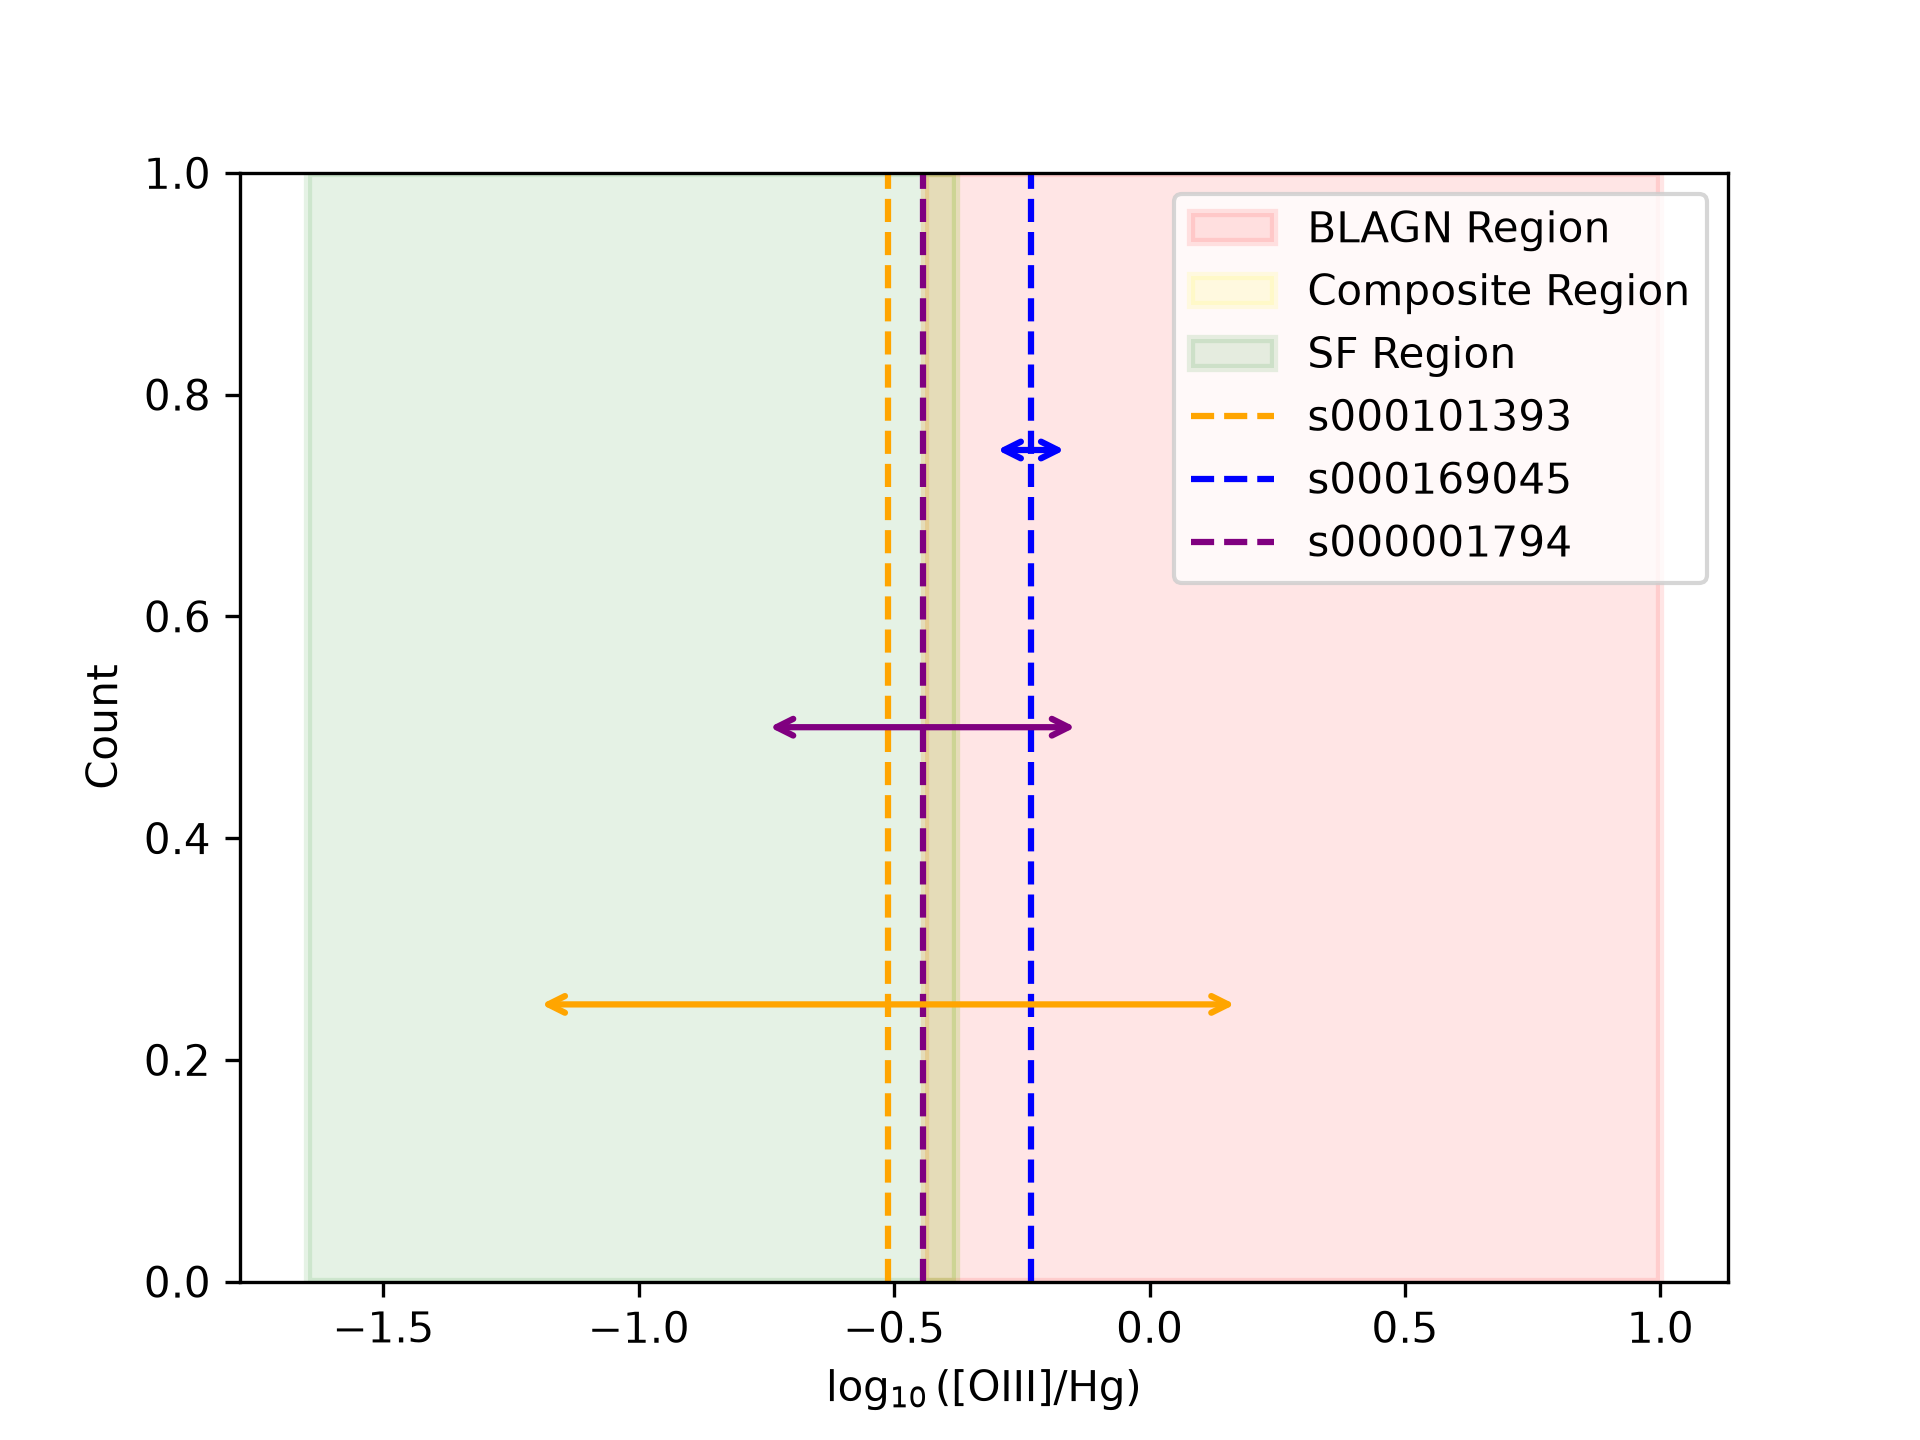
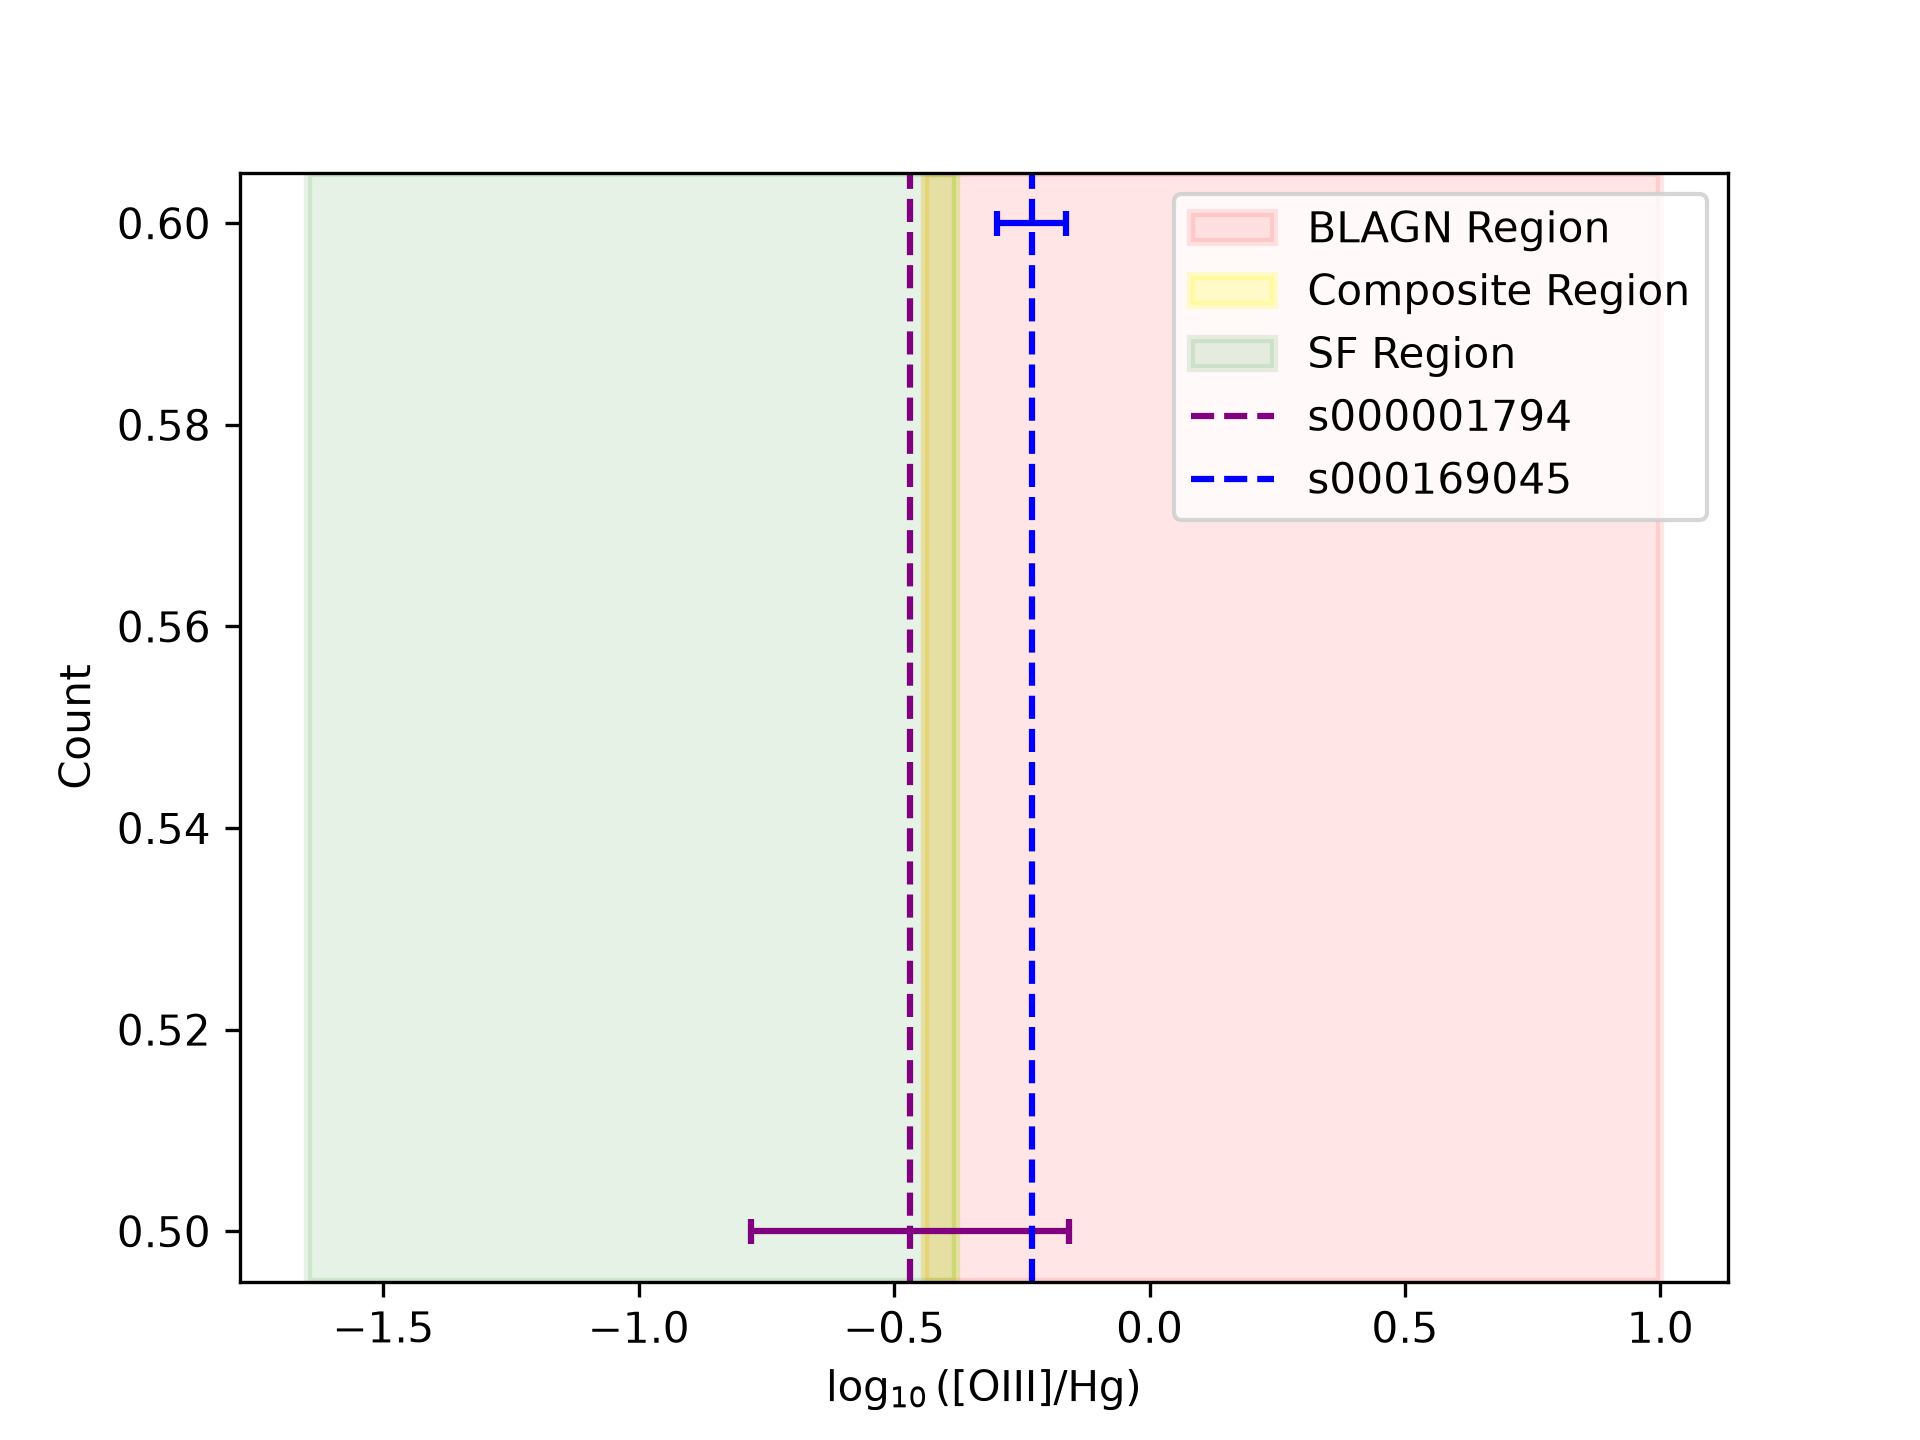
Fixed error prop

diff --git a/ratio_histo_calc.py b/ratio_histo_calc.py
@@ -1,8 +1,8 @@
 # Finds ratio of OIII/Hg, plots results on a histogram in log scale
 
+import os
 import numpy as np
 from astropy.io import fits
-import glob2 as glob
 import lime
 import matplotlib.pyplot as plt
 import astropy.units as u
@@ -23,17 +23,27 @@ redshifts = {
     's000169045': 5.239
 }
 
-all_ratios = []
+# List of exact target filenames
+target_galaxies = [
 
-# dictionary for three specific IDs
-target_galaxies = ['s000101393', 's000001794', 's000169045']
+    'f170lp_g235h_s000001794_x1d_nodded-bg_P1_errescaled.fits',
+    'f170lp_g235h_s000169045_x1d_nodded-bg_P4_errescaled.fits'
+]
+
 target_data = {}
 
-for file_address in glob.glob(data_folder + '*.fits'):
-    print(file_address)
-    # file_address = 'data/reextrac2/f170lp_g235h_s000020504_x1d_nodded-bg_P1_errescaled.fits'
+# loop only through the 3 ID's, ignore others
+for filename in target_galaxies:
+    file_address = os.path.join(data_folder, filename)
+    print(f"Processing: {file_address}")
 
-    galaxy_id = file_address.split('_')[2]
+    # make sure no typos
+    if not os.path.exists(file_address):
+        print(f"File not found: {file_address}")
+        continue
+
+    # get the short ID
+    galaxy_id = filename.split('_')[2]
     z_val = redshifts[galaxy_id]
 
     hdul = fits.open(file_address)
@@ -41,10 +51,8 @@ for file_address in glob.glob(data_folder + '*.fits'):
     flux_array = hdul[1].data['Flux']
     hdul.close()
 
-    # https://lime-stable.readthedocs.io/en/latest/1_introduction/4_lines_database.html
     spec = lime.Spectrum.from_file(file_address, instrument='nirspec', redshift=z_val)
-
-    spec.unit_conversion(wave_units_out='Angstrom', flux_units_out=u.erg/u.s/(u.cm**2))
+    spec.unit_conversion(wave_units_out='Angstrom', flux_units_out=u.erg / u.s / (u.cm ** 2))
 
     spec.fit.bands('H1_4340A', cont_source='adjacent')
     spec.fit.bands('O3_4363A', cont_source='adjacent')
@@ -56,45 +64,37 @@ for file_address in glob.glob(data_folder + '*.fits'):
         profile_flux_err_gamma = spec.frame.loc[['H1_4340A'], ['profile_flux_err']].iloc[0, 0]
         profile_flux_err_oxy = spec.frame.loc[['O3_4363A'], ['profile_flux_err']].iloc[0, 0]
 
-        # Calculate ratio and log ratio
+        # Calculates ratio and log ratio
         ratio = profile_flux_oxy / profile_flux_gamma
         log_ratio = np.log10(ratio)
-        all_ratios.append(ratio)
 
-        # finds error propagation
+        # Calculates error propagation
         fractional_err_oxy = profile_flux_err_oxy / profile_flux_oxy
         fractional_err_gamma = profile_flux_err_gamma / profile_flux_gamma
         ratio_err = ratio * np.sqrt(fractional_err_oxy ** 2 + fractional_err_gamma ** 2)
         log_ratio_err = ratio_err / (ratio * np.log(10))
 
-        if galaxy_id in target_galaxies:
-            target_data[galaxy_id] = {'log_val': log_ratio, 'error': log_ratio_err}
+        target_data[galaxy_id] = {'log_val': log_ratio, 'error': log_ratio_err}
+
+        # debugging prints to figure out why the error is so large
+        print(f"\n--- For {galaxy_id} ---")
+        print(f"OIII Flux: {profile_flux_oxy:.2e} +/- {profile_flux_err_oxy:.2e}")
+        print(f"H-gamma Flux: {profile_flux_gamma:.2e} +/- {profile_flux_err_gamma:.2e}")
+        print(f"Final Log Error: {log_ratio_err:.4f}\n")
 
     except Exception as e:
-        print(e)
-
-# cleans ratios, no nan
-clean_ratios = np.array(all_ratios)
-clean_ratios = clean_ratios[(np.isfinite(clean_ratios)) & (clean_ratios > 0)]
-log_ratios = np.log10(clean_ratios)
-clean_log_ratios = log_ratios[(log_ratios < 1)]
-
-# Checks the ratios
-#print(all_ratios)
-#print(clean_ratios)
-#print(log_ratios)
-#print(clean_log_ratios)
+        print(f"Error processing {filename}: {e}")
 
 # Plots shaded regions
 plt.axvspan(xmin=-0.43933269, xmax=1.0, color='red', alpha=0.1, linewidth=2, label='BLAGN Region')
-plt.axvspan(xmin=-0.43933269, xmax=-0.37892762, color='yellow', alpha=0.1, linewidth=2, label='Composite Region')
+plt.axvspan(xmin=-0.43933269, xmax=-0.37892762, color='yellow', alpha=0.2, linewidth=2, label='Composite Region')
 plt.axvspan(xmin=-1.64839692, xmax=-0.37892762, color='green', alpha=0.1, linewidth=2, label='SF Region')
 
-# gives each fits a certain color
+# info for histo plot
 plot_info = {
-    's000101393': {'color': 'orange', 'height': 0.25},
+
     's000001794': {'color': 'purple', 'height': 0.5},
-    's000169045': {'color': 'blue',   'height': 0.75}
+    's000169045': {'color': 'blue', 'height': 0.6}
 }
 
 for gal_id, data in target_data.items():
@@ -103,29 +103,27 @@ for gal_id, data in target_data.items():
     c = plot_info[gal_id]['color']
     arrow_height = plot_info[gal_id]['height']
 
-    # Plots the main lines
+    # Plots main lines
     plt.axvline(x=val, color=c, linestyle='--', label=gal_id)
 
-    # Calculates the left and right bounds of the error
+    # Plots error bar
     left_bound = val - err
     right_bound = val + err
 
-    # Draws the double-headed arrow across the error
-    plt.annotate('',
-                 xy=(left_bound, arrow_height),  # Start point of the arrow
-                 xytext=(right_bound, arrow_height),  # End point of the arrow
-                 arrowprops=dict(arrowstyle='<->', color=c, linewidth=1.5, shrinkA=0, shrinkB=0))
+    plt.errorbar(x=val,
+                 y=arrow_height,
+                 xerr=err,
+                 fmt='none',
+                 ecolor=c,
+                 capsize=3,
+                 capthick=1.5,
+                 linewidth=1.5)
 
-'''plt.axvline(x=-0.5335600605894151, color = 'orange', linestyle='--', label = 's000101393')
-plt.axvline(x=-0.4486212610729128, color = 'purple', linestyle='--', label = 's000001794')
-plt.axvline(x=-0.23118045243916688, color = 'blue', linestyle='--', label = 's000169045')
-'''
-
-# labels
+# Labels
 plt.xlabel(r'$\log_{10}([\mathrm{OIII}] / \mathrm{Hg})$')
 plt.ylabel('Count')
 plt.legend(loc='upper right')
 
-plt.savefig(f'final_histogram.png', dpi=300)
+plt.savefig('final_histogram.png', dpi=300)
 plt.show()
 plt.close()

diff --git a/Wavelength_calc.py b/Wavelength_calc.py
@@ -45,17 +45,17 @@ for file_address in glob.glob(data_folder + '*.fits'):
     spec.fit.continuum(degree_list=[3, 6, 6], emis_threshold=[3, 2, 1.5], plot_steps=True, log_scale=True)
     candidate_lines = spec.retrieve.lines_frame()
     matched_lines = spec.infer.peaks_troughs(candidate_lines, emission_type=True, sigma_threshold=3, plot_steps=True, log_scale=True)
-    spec.fit.bands('H1_4340A_p-g_s-emi', cont_source='adjacent')
+    #spec.fit.bands('H1_4340A_p-g_s-emi', cont_source='adjacent')
 
-    #spec.fit.bands('O3_4363A', cont_source='adjacent')
+    spec.fit.bands('O3_4363A', cont_source='adjacent')
 
     try:
-        profile_flux_gamma = spec.frame.loc[['H1_4340A_p-g_s-emi'], ['profile_flux']].iloc[0, 0]
-        #profile_flux_oxy = spec.frame.loc[['O3_4363A'], ['profile_flux']].iloc[0, 0]
-        profile_flux_gamma_log = np.log10(profile_flux_gamma)
-        hg_ratio.append(profile_flux_gamma_log)
-        hg_ratio =np.array(hg_ratio)
-        print(profile_flux_gamma_log)
+        #profile_flux_gamma = spec.frame.loc[['H1_4340A_p-g_s-emi'], ['profile_flux']].iloc[0, 0]
+        profile_flux_oxy = spec.frame.loc[['O3_4363A'], ['profile_flux']].iloc[0, 0]
+        #profile_flux_gamma_log = np.log10(profile_flux_gamma)
+        #hg_ratio.append(profile_flux_gamma_log)
+        #hg_ratio =np.array(hg_ratio)
+        #print(profile_flux_gamma_log)
         #print(profile_flux_oxy)
         #ratio = profile_flux_oxy / profile_flux_gamma
         #log_ratios = np.log10(ratio)
